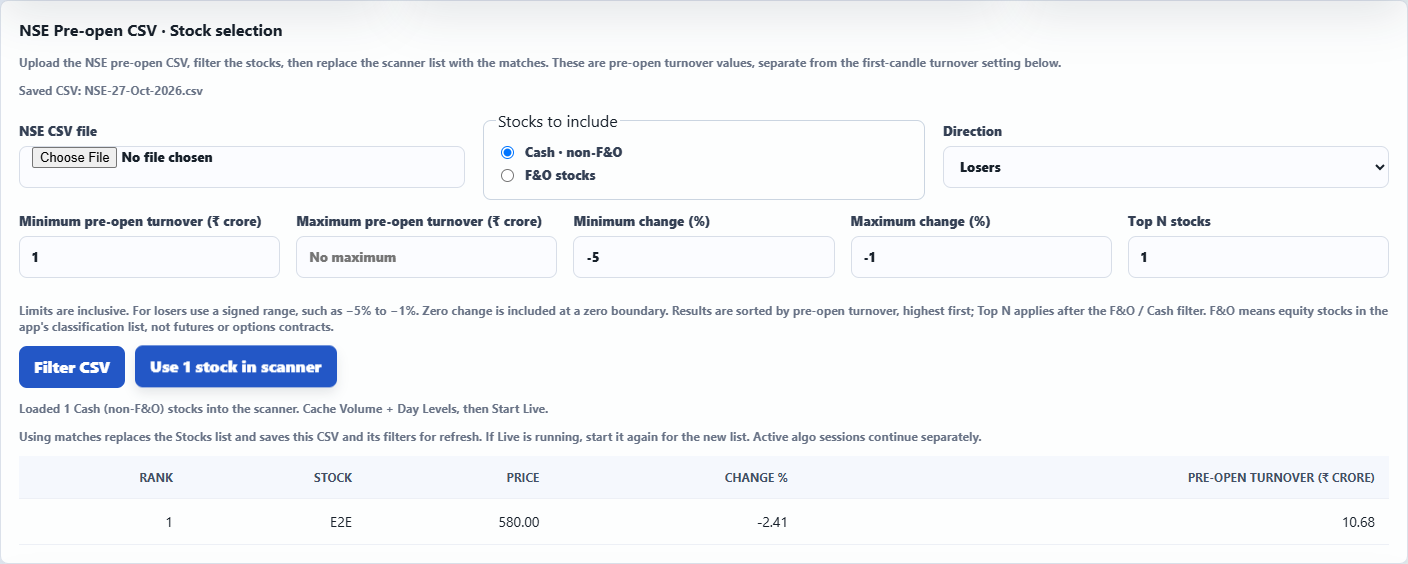
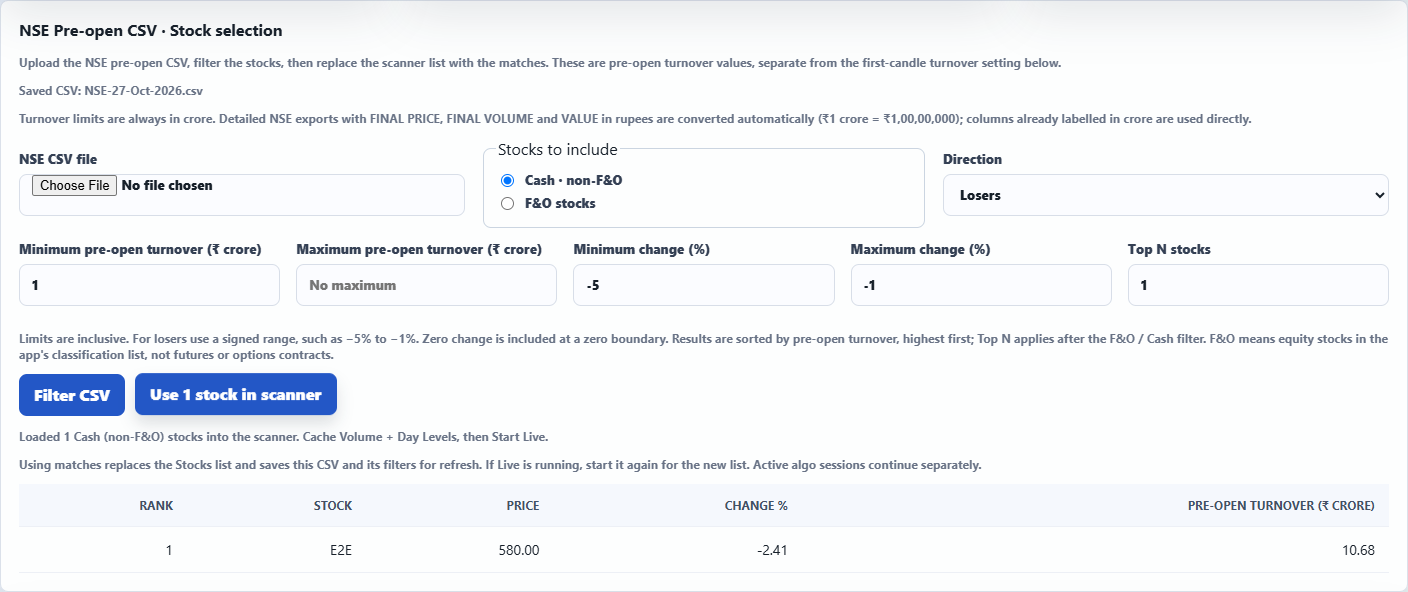
done

diff --git a/app/static/preopen.js b/app/static/preopen.js
@@ -25,11 +25,14 @@
   }
   function show(result) {
     preview = result;
+    const units = result.turnover_source_unit === 'rupees'
+      ? 'CSV turnover is in rupees; converted to crore by dividing by 1,00,00,000.'
+      : result.turnover_source_unit === 'crore' ? 'CSV turnover is already in crore.' : '';
     get('preopenRows').innerHTML = result.rows.map((row, i) => `<tr><td>${i + 1}</td><td>${escapeHtml(row.symbol)}</td><td>${fmtNumber(row.price)}</td><td>${fmtNumber(row.change_percent)}</td><td>${fmtNumber(row.turnover_crore)}</td></tr>`).join('');
     get('preopenTable').hidden = !result.selected_count;
     get('preopenApply').disabled = !result.selected_count || applying;
     get('preopenApply').textContent = `Use ${result.selected_count} ${result.selected_count === 1 ? 'stock' : 'stocks'} in scanner`;
-    status(`${result.filename}: ${result.selected_count} selected from ${result.matched_count} matches (${result.settings.universe === 'fno' ? 'F&O' : 'Cash / non-F&O'}). ${result.total_rows} rows; ${result.invalid_rows} missing or invalid rows skipped; ${result.duplicate_rows} duplicates skipped. Uses the app's ${result.fno_list_count}-symbol F&O list from your scripts. Preview only until you use these stocks.`);
+    status(`${result.filename}: ${result.selected_count} selected from ${result.matched_count} matches (${result.settings.universe === 'fno' ? 'F&O' : 'Cash / non-F&O'}). Turnover: minimum ${result.settings.min_turnover} crore; maximum ${result.settings.max_turnover ?? 'no limit'}. ${units} ${result.total_rows} rows; ${result.invalid_rows} missing or invalid rows skipped; ${result.duplicate_rows} duplicates skipped. Uses the app's ${result.fno_list_count}-symbol F&O list from your scripts. Preview only until you use these stocks.`);
   }
   async function runPreview() {
     clearTimeout(timer);

diff --git a/app/static/index.html b/app/static/index.html
@@ -119,6 +119,7 @@ OIL</textarea>
         <div class="panel-head"><h2>NSE Pre-open CSV · Stock selection</h2></div>
         <p class="muted-small">Upload the NSE pre-open CSV, filter the stocks, then replace the scanner list with the matches. These are pre-open turnover values, separate from the first-candle turnover setting below.</p>
         <p id="preopenSource" class="muted-small">No CSV loaded.</p>
+        <p class="muted-small">Turnover limits are always in crore. Detailed NSE exports with FINAL PRICE, FINAL VOLUME and VALUE in rupees are converted automatically (₹1 crore = ₹1,00,00,000); columns already labelled in crore are used directly.</p>
         <form id="preopenForm">
           <div class="filter-fields">
             <label>NSE CSV file<input id="preopenFile" type="file" accept=".csv,text/csv" /></label>

diff --git a/tests/test_preopen.py b/tests/test_preopen.py
@@ -176,3 +176,91 @@ def test_csv_import_browser_workflow(integration):
             assert ctx.store.load().symbols == ['E2E']
         finally:
             browser.close()
+
+
+RAW_NSE_CSV = """SYMBOL,%CHANGE,FINAL PRICE,FINAL VOLUME,VALUE
+RAWLOW,1,100,24000,"24,00,000.00"
+RAWEDGE,1,100,25000,"25,00,000.00"
+RAWTHREE,1,100,300000,"3,00,00,000.00"
+RAWHIGH,1,100,350000,"3,50,00,000.00"
+HDFCBANK,1,100,400000,"4,00,00,000.00"
+"""
+
+
+@pytest.mark.parametrize("minimum,maximum,expected", [
+    (.25, None, ['RAWHIGH','RAWTHREE','RAWEDGE']),
+    (3, None, ['RAWHIGH','RAWTHREE']),
+    (3, 3, ['RAWTHREE']),
+    (3.01, None, ['RAWHIGH']),
+])
+def test_detailed_nse_value_in_rupees_normalized_before_filtering(minimum, maximum, expected):
+    result = filter_csv(PreopenRequest(csv_text=RAW_NSE_CSV,
+        settings={'min_turnover':minimum, 'max_turnover':maximum}))
+    assert result['symbols'] == expected
+    assert result['turnover_source_column'] == 'VALUE'
+    assert result['turnover_source_unit'] == 'rupees'
+    assert all(minimum <= row['turnover_crore'] <= (maximum if maximum is not None else 999) for row in result['rows'])
+
+
+def test_crore_header_takes_precedence_and_is_not_converted_twice():
+    text='SYMBOL,%CHANGE,FINAL PRICE,FINAL VOLUME,VALUE,VALUE (Crores)\nRAWTHREE,1,100,300000,30000000,3\n'
+    result=filter_csv(PreopenRequest(csv_text=text, settings={'min_turnover':3,'max_turnover':3}))
+    assert result['symbols'] == ['RAWTHREE']
+    assert result['rows'][0]['turnover_crore'] == 3
+    assert result['turnover_source_unit'] == 'crore'
+
+
+@pytest.mark.parametrize('header', ['VALUE (INR)', 'VALUE (RS)', 'VALUE (RUPEES)'])
+def test_explicit_rupee_units(header):
+    text=f'SYMBOL,%CHANGE,{header}\nRAWTHREE,1,30000000\n'
+    result=filter_csv(PreopenRequest(csv_text=text,settings={'min_turnover':3,'max_turnover':3}))
+    assert result['symbols'] == ['RAWTHREE']
+    assert result['rows'][0]['turnover_crore'] == 3
+
+
+def test_raw_nse_turnover_preview_apply_and_reload_in_browser(integration):
+    pw = pytest.importorskip('playwright.sync_api')
+    ctx=integration
+    def route(r):
+        from urllib.parse import urlsplit
+        url=urlsplit(r.request.url)
+        if url.hostname != 'scanner.test': return r.abort()
+        result=ctx.http.request(r.request.method,url.path,content=r.request.post_data,
+                               headers={'content-type':'application/json'})
+        r.fulfill(status=result.status_code,body=result.content,content_type=result.headers.get('content-type','text/html'))
+    with pw.sync_playwright() as p:
+        browser=p.chromium.launch(channel='msedge',headless=True)
+        try:
+            page=browser.new_page()
+            errors=[]
+            page.on('pageerror',lambda e:errors.append(str(e)))
+            page.route('**/*',route)
+            page.goto('http://scanner.test/')
+            page.locator('#preopenFile').set_input_files({'name':'NSE-03-Nov-2026.csv','mimeType':'text/csv','buffer':RAW_NSE_CSV.encode()})
+            pw.expect(page.locator('#preopenApply')).to_have_text('Use 4 stocks in scanner')
+            page.locator('#preopenMinTurnover').fill('0.25')
+            pw.expect(page.locator('#preopenApply')).to_have_text('Use 3 stocks in scanner')
+            pw.expect(page.locator('#preopenStatus')).to_contain_text('converted to crore')
+            pw.expect(page.locator('#preopenStatus')).to_contain_text('minimum 0.25 crore')
+            page.locator('#preopenMinTurnover').fill('3')
+            pw.expect(page.locator('#preopenApply')).to_have_text('Use 2 stocks in scanner')
+            pw.expect(page.locator('#preopenStatus')).to_contain_text('minimum 3 crore')
+            assert ctx.store.load().symbols == ['RED','GREEN']
+            page.locator('#preopenApply').click()
+            pw.expect(page.locator('#symbolsText')).to_have_value('RAWHIGH\nRAWTHREE')
+            assert ctx.store.load_preopen_import()['settings']['min_turnover'] == 3
+            page.reload()
+            pw.expect(page.locator('#preopenMinTurnover')).to_have_value('3')
+            pw.expect(page.locator('#preopenApply')).to_have_text('Use 2 stocks in scanner')
+            page.locator('#preopenMaxTurnover').fill('3')
+            pw.expect(page.locator('#preopenApply')).to_have_text('Use 1 stock in scanner')
+            pw.expect(page.locator('#preopenRows')).to_contain_text('RAWTHREE')
+            page.locator('#preopenFno').check()
+            pw.expect(page.locator('#preopenApply')).to_have_text('Use 0 stocks in scanner')
+            page.locator('#preopenMaxTurnover').fill('')
+            pw.expect(page.locator('#preopenApply')).to_have_text('Use 1 stock in scanner')
+            pw.expect(page.locator('#preopenRows')).to_contain_text('HDFCBANK')
+            assert not errors
+            assert not ctx.broker.daily_calls and not ctx.broker.minute_calls
+        finally:
+            browser.close()

diff --git a/app/preopen.py b/app/preopen.py
@@ -69,6 +69,18 @@ def filter_csv(payload: PreopenRequest) -> dict:
         turnover_col = next((i for i, col in enumerate(headers) if "VALUE" in col and "CRORE" in col), None)
         if turnover_col is None:
             turnover_col = column(["TURNOVER ₹ CR", "TURNOVER CR", "VALUE (₹ CR)", "TOTAL VALUE (₹ CR)", "TURNOVER", "VALUE", "TOTAL VALUE"])
+        turnover_unit = "crore"
+        # NSE's detailed export uses an unlabelled VALUE column in rupees.
+        # Its other export explicitly labels VALUE in crore. Never infer units
+        # from the size of a row's value: low-turnover stocks would be misread.
+        if turnover_col is not None and headers[turnover_col] in {"VALUE", "TOTAL VALUE", "TURNOVER"}:
+            if column(["FINAL VOLUME"]) is not None and column(["FINAL PRICE"]) is not None:
+                turnover_unit = "rupees"
+        if turnover_col is None:
+            turnover_col = column(["VALUE (₹)", "VALUE (RS)", "VALUE (INR)", "VALUE (RUPEES)",
+                                   "TURNOVER (₹)", "TURNOVER (RS)", "TURNOVER (INR)"])
+            if turnover_col is not None:
+                turnover_unit = "rupees"
         if symbol_col is None or change_col is None or turnover_col is None:
             raise ValueError("CSV needs Symbol, percentage change (%CHANGE) and turnover/value in crore columns")
         price_cols = [i for name in ["FINAL PRICE", "IEP", "INDICATIVE EQUILIBRIUM PRICE", "INDICATIVE EQUILIBRIUM PRICE (₹)", "PRICE", "LTP"]
@@ -86,6 +98,8 @@ def filter_csv(payload: PreopenRequest) -> dict:
                 continue
             symbol = re.sub(r"\s+", "", re.sub(r"^NSE\s*:\s*", "", row[symbol_col].strip().upper()))
             change, turnover = numeric(row[change_col]), numeric(row[turnover_col])
+            if turnover is not None and turnover_unit == "rupees":
+                turnover /= 10_000_000
             if (not re.fullmatch(r"[A-Z0-9][A-Z0-9&.\-]*", symbol) or symbol in {"TOTAL", "NAN", "NONE"}
                     or change is None or turnover is None or turnover < 0):
                 invalid += 1
@@ -114,6 +128,7 @@ def filter_csv(payload: PreopenRequest) -> dict:
     if settings.top_n is not None:
         selected = selected[:settings.top_n]
     return {"filename": payload.filename, "settings": settings.model_dump(), "total_rows": total,
+            "turnover_source_column": headers[turnover_col], "turnover_source_unit": turnover_unit,
             "valid_rows": len(rows), "invalid_rows": invalid, "duplicate_rows": duplicates,
             "numeric_matches": len(numeric_matches), "matched_count": matched,
             "selected_count": len(selected), "fno_list_count": len(FNO_SYMBOLS), "rows": selected,

diff --git a/README.md b/README.md
@@ -192,3 +192,5 @@ Live and Backtest display filter: **Filter dashboard by first-candle volume** de
 Display filters now apply to both Live and Backtest tables and are visible above both tabs. Absolute volume uses live `today_opening_volume` or backtest `first_candle_volume`; price (OFF by default, Rs250) uses live LTP or backtest `first_candle_close`. Volume must be strictly greater than its threshold; stock price must be at or below its maximum (equality included). Both exclude missing values when enabled and combine with the setup selector. Preferences are local to this browser. Filtering re-renders existing results immediately without changing scanner totals or active algos. Backtest rows now expose first open, first close, previous close and absolute opening gap, separate from the previous-day percentage change. A warning identifies results generated with different scanner settings; rerun to apply changed qualification filters. Requested opening-gap settings are checked against the returned backtest settings before new results are displayed.
 
 Integration audit (31 October 2026): [fixes, tested workflows and verification limits](docs/integration-audit-2026-10-31.md). Scanner backtests now carry their selected settings with the request to prevent another tab from changing the run. Manual stock-list saves preserve the existing list if instrument lookup fails. Date inputs and candle labels use IST.
+
+NSE CSV turnover units: detailed exports containing FINAL PRICE, FINAL VOLUME and bare VALUE (or TOTAL VALUE / TURNOVER) are read as rupees and divided by 10,000,000 before display, filtering and sorting. Explicit crore-labelled columns retain their values; explicit VALUE (INR), VALUE (RS), VALUE (RUPEES) and rupee-symbol headers are also supported. The preview states the interpreted unit and applied minimum/maximum in crore. Existing saved CSVs are normalized again on preview; click Use stocks in scanner to replace a list previously selected using incorrect units.
